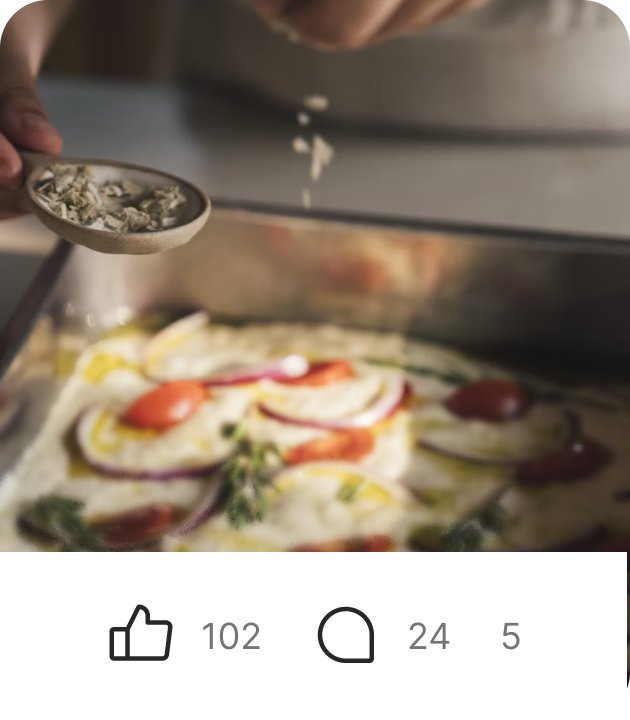
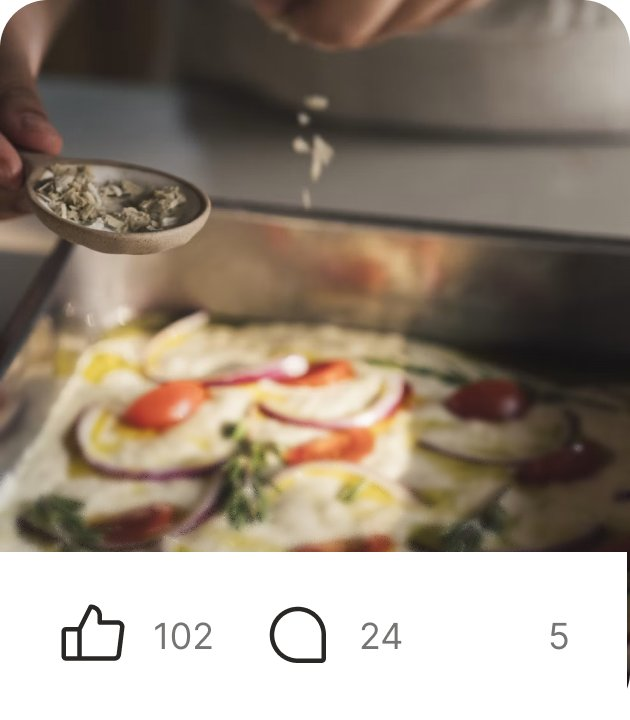
Guide d'import : captures FB et TikTok sans décalage ; écran de fin sans avertissement web
Le bouton orange était masqué dans des frames en auto layout, ce qui décalait les autres éléments à
l'export. Le soulignement « Fais maison! » est dévoilé par sa largeur plutôt que par un tracé SVG animé.

Claude-Session: https://claude.ai/code/session_01P3By96ef27uPNraox7qcd1

diff --git a/src/components/screens/recipe/FinishStep.tsx b/src/components/screens/recipe/FinishStep.tsx
@@ -30,13 +30,11 @@ const STAMP_SPRING = { stiffness: 160, damping: 20, mass: 1 };
 const STAMP_SCALE = 1.08;
 const STAMP_TILT = '-6deg';
 /** Puis « Fais maison! » se souligne comme au stylo. */
-const UNDERLINE_LENGTH = 90;
+const UNDERLINE_WIDTH = 86;
 const UNDERLINE_DELAY = 450;
 const UNDERLINE_DURATION = 300;
 /** Fondu enchaîné entre l'ancienne vignette et la photo prise. */
 const PHOTO_FADE = 250;
-
-const AnimatedPath = Animated.createAnimatedComponent(Path);
 
 type FinishStepProps = {
   /** Vignette actuelle de la recette (la photo prise, une fois remplacée). */
@@ -70,7 +68,7 @@ export function FinishStep({ image, photoTaken, onTakePhoto, onDone, onBack }: F
       ]),
       Animated.sequence([
         Animated.delay(UNDERLINE_DELAY),
-        // Le tracé SVG n'est pas animable par le driver natif.
+        // La largeur révélée n'est pas animable par le driver natif.
         Animated.timing(underline, {
           toValue: 1,
           duration: UNDERLINE_DURATION,
@@ -115,17 +113,22 @@ export function FinishStep({ image, photoTaken, onTakePhoto, onDone, onBack }: F
                 <AppText style={styles.homemadeText} color={color.tagText}>
                   Fais maison!
                 </AppText>
-                <Svg width={86} height={4} style={styles.underline}>
-                  <AnimatedPath
-                    strokeDasharray={UNDERLINE_LENGTH}
-                    strokeDashoffset={underline.interpolate({ inputRange: [0, 1], outputRange: [UNDERLINE_LENGTH, 0] })}
-                    d="M0 3C0.1 3 0.2 3 3.86 2.52C7.5 2.04 14.66 1.1 28.78 0.55C42.9 0.01 63.75 -0.11 85.66 0.09"
-                    stroke={color.accentBlue}
-                    strokeWidth={2.2}
-                    fill="none"
-                    transform="translate(0 1)"
-                  />
-                </Svg>
+                {/* Trait dévoilé de gauche à droite : un tracé SVG animé déclenche un avertissement sur le web. */}
+                <Animated.View
+                  style={[
+                    styles.underline,
+                    { width: underline.interpolate({ inputRange: [0, 1], outputRange: [0, UNDERLINE_WIDTH] }) },
+                  ]}>
+                  <Svg width={UNDERLINE_WIDTH} height={4}>
+                    <Path
+                      d="M0 3C0.1 3 0.2 3 3.86 2.52C7.5 2.04 14.66 1.1 28.78 0.55C42.9 0.01 63.75 -0.11 85.66 0.09"
+                      stroke={color.accentBlue}
+                      strokeWidth={2.2}
+                      fill="none"
+                      transform="translate(0 1)"
+                    />
+                  </Svg>
+                </Animated.View>
               </View>
               <Pressable
                 accessibilityRole="button"
@@ -257,6 +260,8 @@ const styles = StyleSheet.create({
     position: 'absolute',
     left: 41,
     bottom: -2,
+    height: 4,
+    overflow: 'hidden',
   },
   camera: {
     width: 40,
